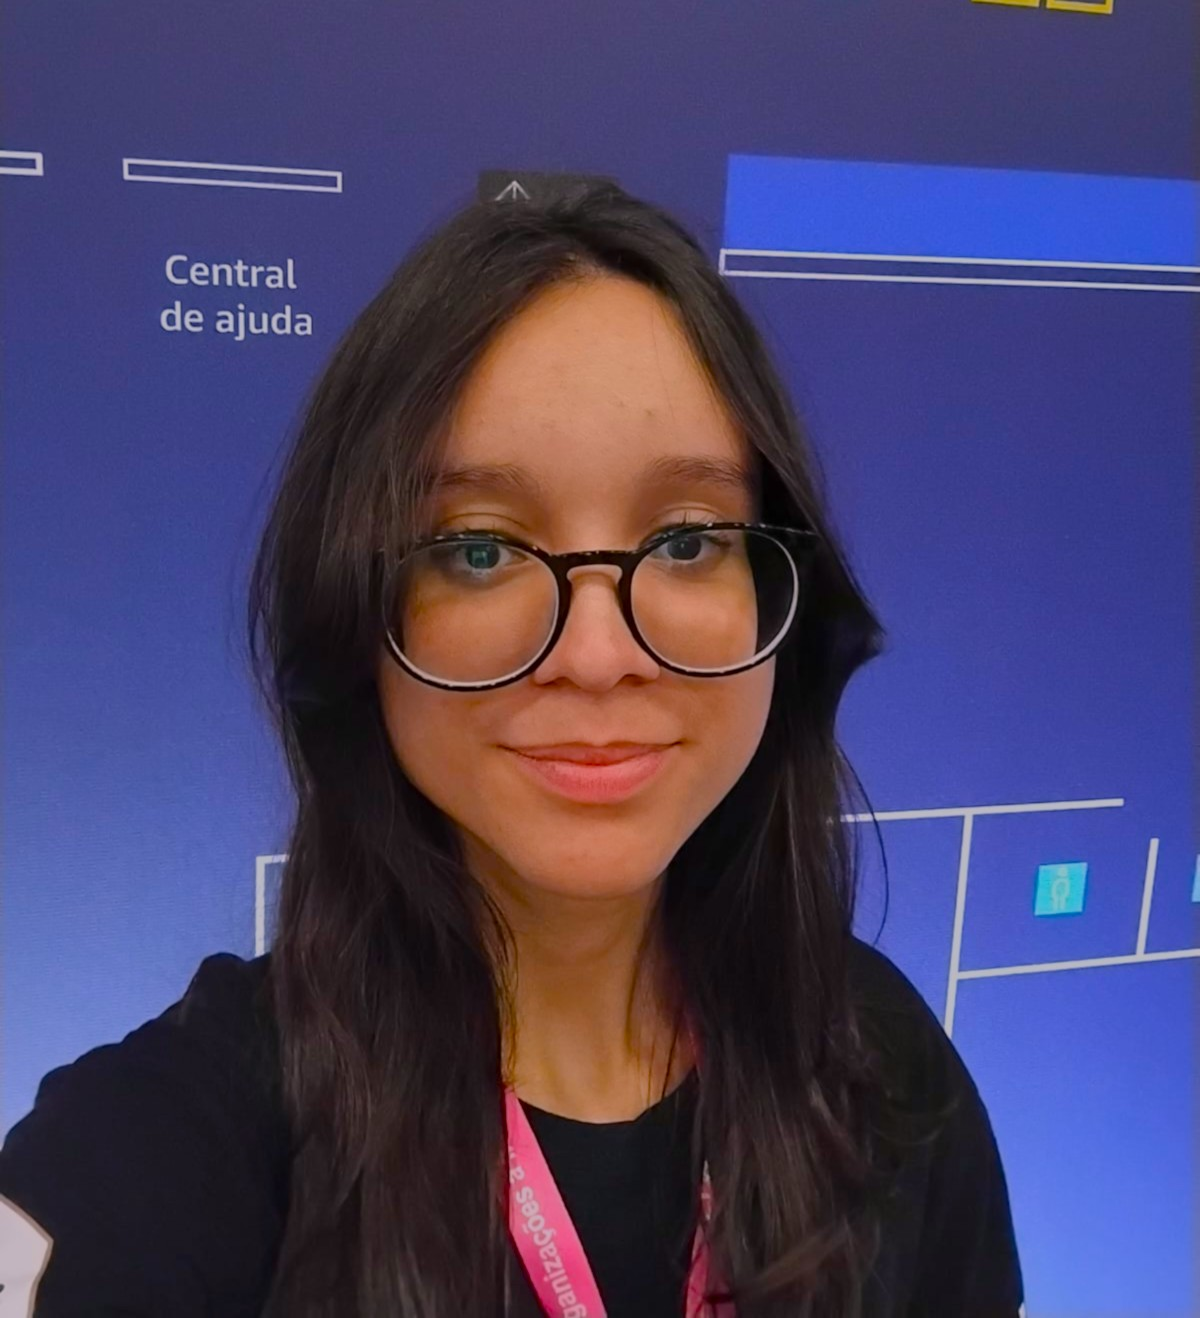
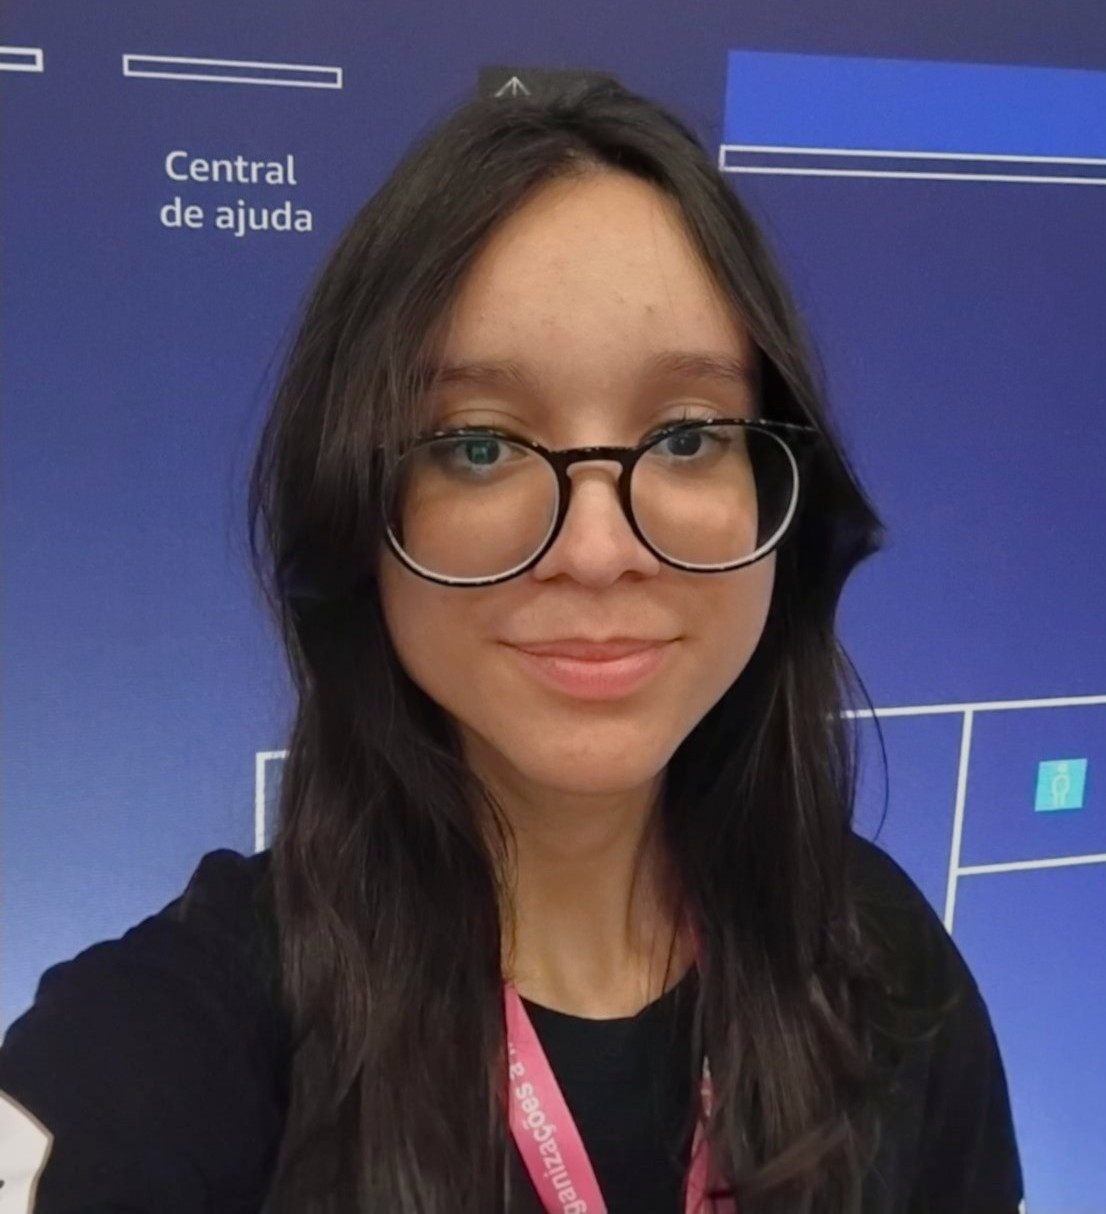
Update

diff --git a/pano_pamela-main/sobre.html b/pano_pamela-main/sobre.html
@@ -20,7 +20,7 @@
               </div>
            <div id="paragrafo">   
                  <img src="assets/icone/arrow.png" alt="ícone" id="icone">
-             <p>Somos uma equipe do PIBIC do COTIL composta por alunos de alto desempenho. Nosso propósito é enfrentar os desafios relacionados à acessibilidade e à promoção de facilidades para os alunos do COTIL e para toda a comunidade escolar, sempre buscando inovação e melhoria.</p>
+             <p>Somos uma equipe do PIBIC do COTIL composta por alunos de alto desempenho. Nosso propósito é enfrentar os desafios relacionados à acessibilidade e à promoção de facilidades para todos os alunos buscando sempre melhorias.</p>
            </div>
         </div>
 
@@ -37,7 +37,7 @@
                         </div>
                         <div class="texto-perfil">
                             <h3>Danilo Rodrigues Pereira</h3>
-                            <h4>Lorem ipsum dolor, sit amet consectetur adipisicing elit. Nihil, error? Alias at, dolore ab mollitia voluptatum ad natus corporis adipisci aut aspernatur nostrum, voluptatibus similique.</h4>
+                            <h4>Professor dedicado à área de tecnologia e inovação, com experiência em orientar projetos de pesquisa e desenvolvimento. Gosta de incentivar os alunos a explorarem novas ferramentas, desenvolverem autonomia e aplicarem seus conhecimentos em soluções práticas.</h4>
                         </div>
                     </div>
                     <div class="card">
@@ -46,7 +46,7 @@
                         </div>
                         <div class="texto-perfil">
                             <h3>Joel João de Araujo Neto</h3>
-                            <h4>Lorem ipsum dolor, sit amet consectetur adipisicing elit. Repellat sit quidem odit quod. Inventore, fuga corporis tempora accusamus amet dignissimos. Cupiditate omnis modi iure quisquam.</h4>
+                            <h4>Sou entusiasta de novas tecnologias e gosto de acompanhar tendências de mercado. Me identifico bastante com projetos de inovação, IoT e computação distribuída.</h4>
                         </div>
                     </div>
                     <div class="card">
@@ -56,7 +56,7 @@
                         </div>
                         <div class="texto-perfil">
                             <h3>Maria Clara Felix</h3>
-                            <h4>Lorem ipsum dolor sit amet, consectetur adipisicing elit. Ad alias veniam et assumenda unde tempore nam maiores, consequatur adipisci. Modi laborum suscipit ab minus maxime?</h4>
+                            <h4>Gosto de trabalhar em equipe e aprender coisas novas todos os dias. Me interesso bastante por análise de dados e automação de processos que facilitem o dia a dia das empresas.</h4>
                         </div>
                     </div>
                     <div class="card">
@@ -86,7 +86,7 @@
                         </div>
                         <div class="texto-perfil">
                             <h3>Vitória Ferreira Lima</h3>
-                            <h4>Lorem ipsum dolor sit amet consectetur adipisicing elit. Perspiciatis beatae laudantium rem atque ad laboriosam cumque at, natus molestiae dolorem cum accusantium quam magni odio!</h4>
+                            <h4>Sou apaixonada por resolver problemas através da programação. Tenho interesse especial em desenvolvimento web, inteligência artificial e como a tecnologia pode impactar positivamente a vida das pessoas</h4>
                         </div>
                     </div>
                 </div>
@@ -109,6 +109,8 @@ menuIcon.addEventListener('click', () => {
     menuIcon.style.width = '';
   }
 });
+
+
 function scrollCarousel(direction) {
   const container = document.querySelector('.cards');
   const cardWidth = container.querySelector('.card').offsetWidth + 20; // largura do card + gap

diff --git a/pano_pamela-main/sobre_style.css b/pano_pamela-main/sobre_style.css
@@ -161,11 +161,6 @@
         border-radius: 100%;
     }
 
-    #paragrafos{
-        max-width: 800px;
-        text-align: justify;
-        margin: auto;
-    }
 
     
      h1 {
@@ -178,6 +173,8 @@
     }
 
  @media screen and (max-width: 601px) {
+
+
     #menu-icon {
     display: block;
     cursor: pointer;
@@ -241,12 +238,10 @@
   }
 
   #header  p{
-  width: 50vw;  
+  width: 60vw;  
 }
 
-  #paragrafo{
-    margin-left: 2em;
-  }
+
   
   #header {
   height: 60vh;
@@ -254,8 +249,9 @@
 }
 
 #paragrafo{
-  height: 80vh;
-
+  height: 60vh;
+  width: 100vw;
+   margin-left: 2em;
 }
 
  .cards {
@@ -302,7 +298,7 @@
   }
 
   .perfis-container {
-    position: relative; /* para os botões ficarem sobre os cards */
+    position: relative; 
   }
 
 }
@@ -371,9 +367,7 @@
   width: 50vw;  
 }
 
- #paragrafo{
-    margin-left: 2em;
-  }
+
 
     #header {
   height: 60vh;
@@ -381,7 +375,9 @@
 }
 
 #paragrafo{
-  height: 80vh;
+  height: 60vh;
+      margin-left: 2em;
+      width: 60vw;  
 
 }
 

diff --git a/pano_pamela-main/style.css b/pano_pamela-main/style.css
@@ -374,7 +374,7 @@ footer > p{
 
 
   #container-texto>h2 {
-    font-size: 2.0em;
+    font-size: 1.8em;
     margin-top: 50px;
     margin-left: 10px;
     margin-right: 10px;
@@ -403,7 +403,7 @@ footer > p{
 } */
 
   #container-carrossel>h2 {
-    font-size: 1.8em;
+    font-size: 1.6em;
     padding-top: 60px;
     margin-left: 50px;
     margin-right: 50px;
@@ -411,7 +411,7 @@ footer > p{
 
   #container-carrossel>p {
     margin: 20px;
-    font-size: 1.1em;
+    font-size: 1em;
     font-weight: 100;
   }
 

diff --git a/pano_pamela-main/wifi.html b/pano_pamela-main/wifi.html
@@ -20,8 +20,8 @@
     </div>
       <section id="principal">
       <div class="texto-principal">
-        <h1>Conecte-se na</h1>
-        <span>Eduroam</span>
+        <h1>Conecte-se na <span>Eduroam</span></h1>
+        
         <p>Siga nosso guia simples e acesse a rede Eduroam para navegar e estudar sem complicação</p>
         <button>Ver Tutorial</button>
       </div>
